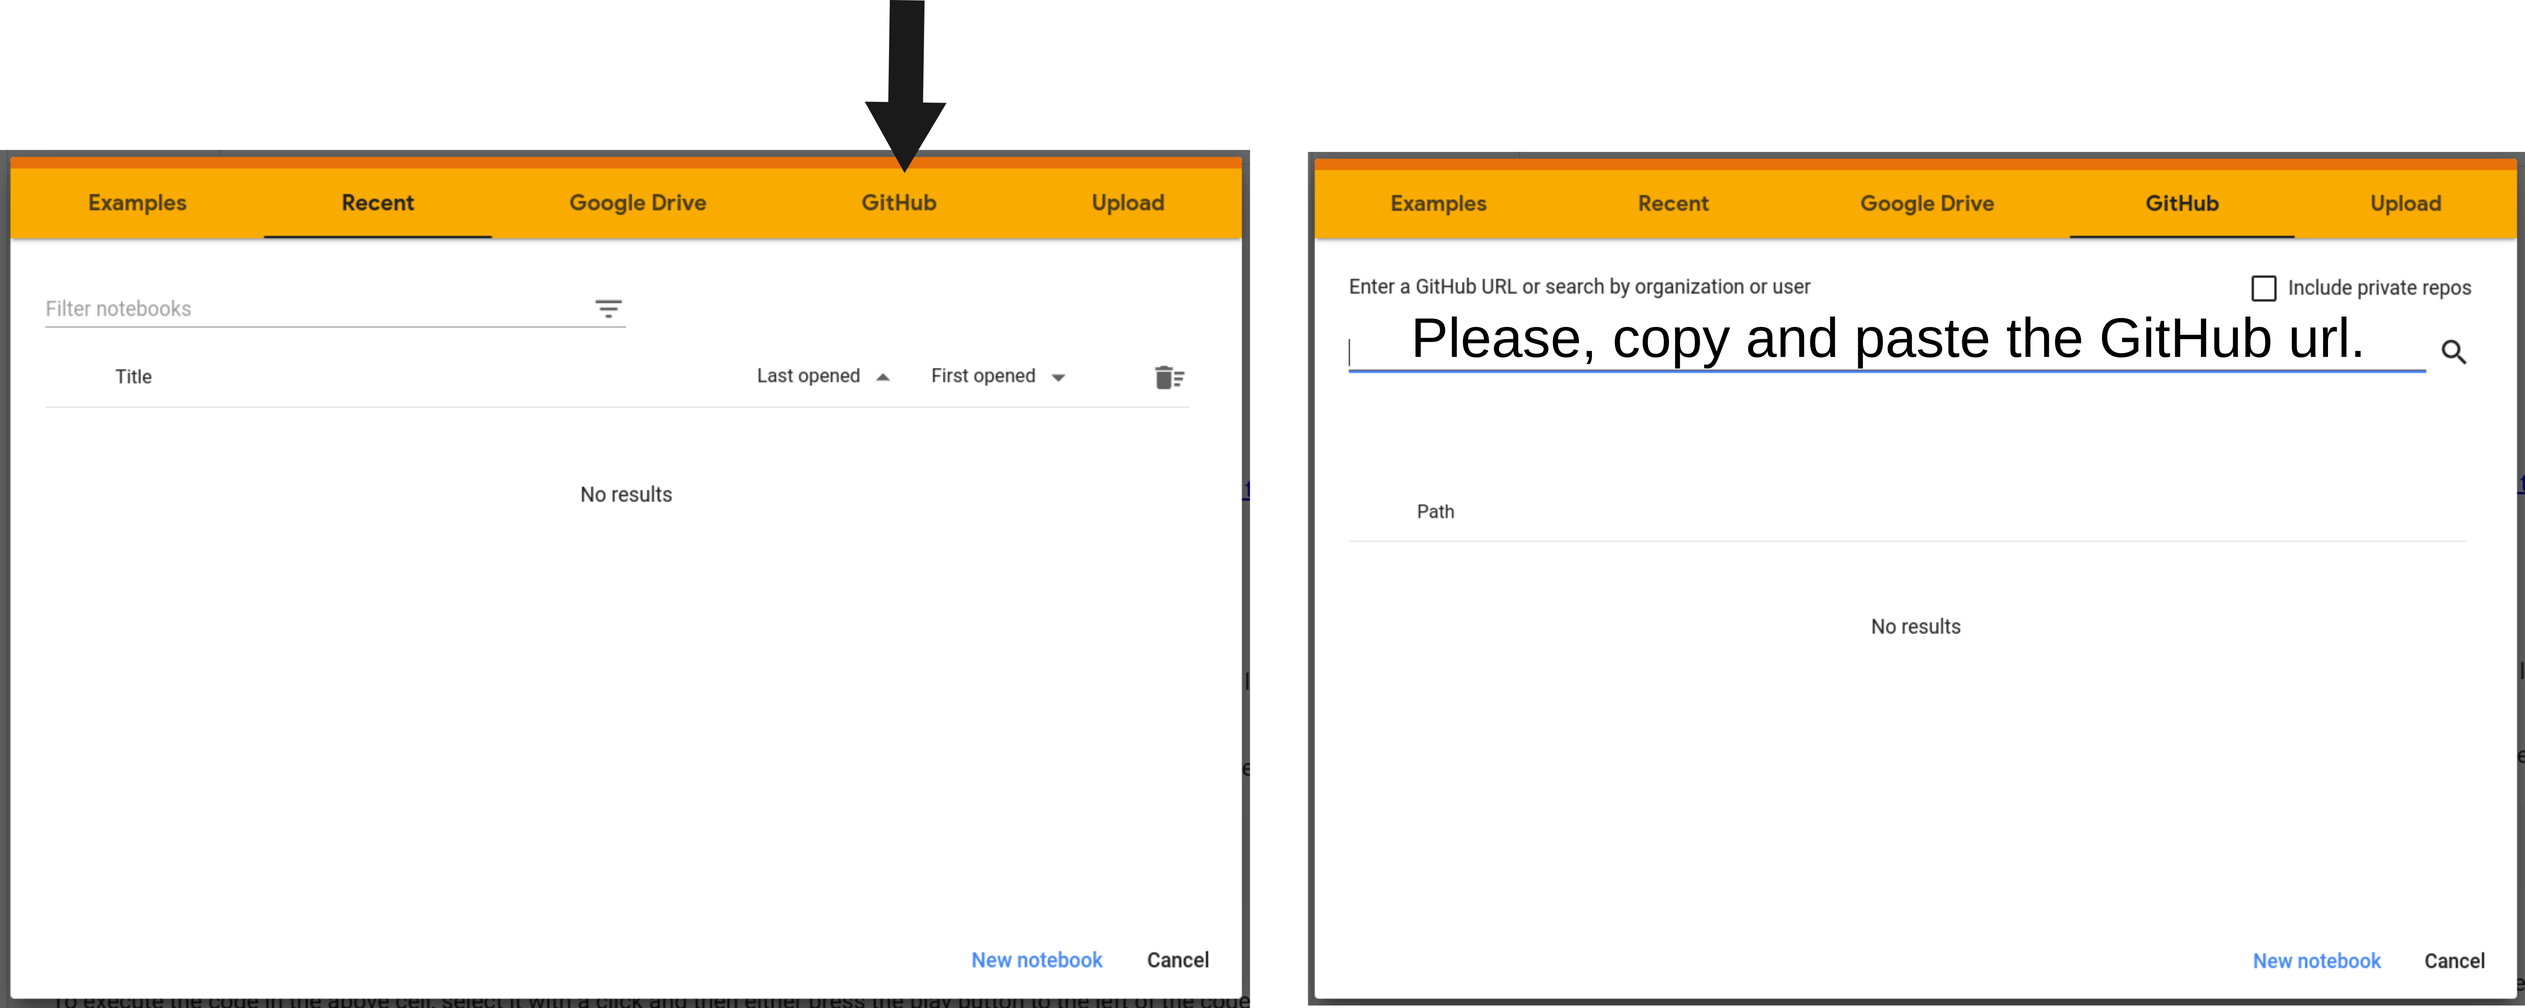
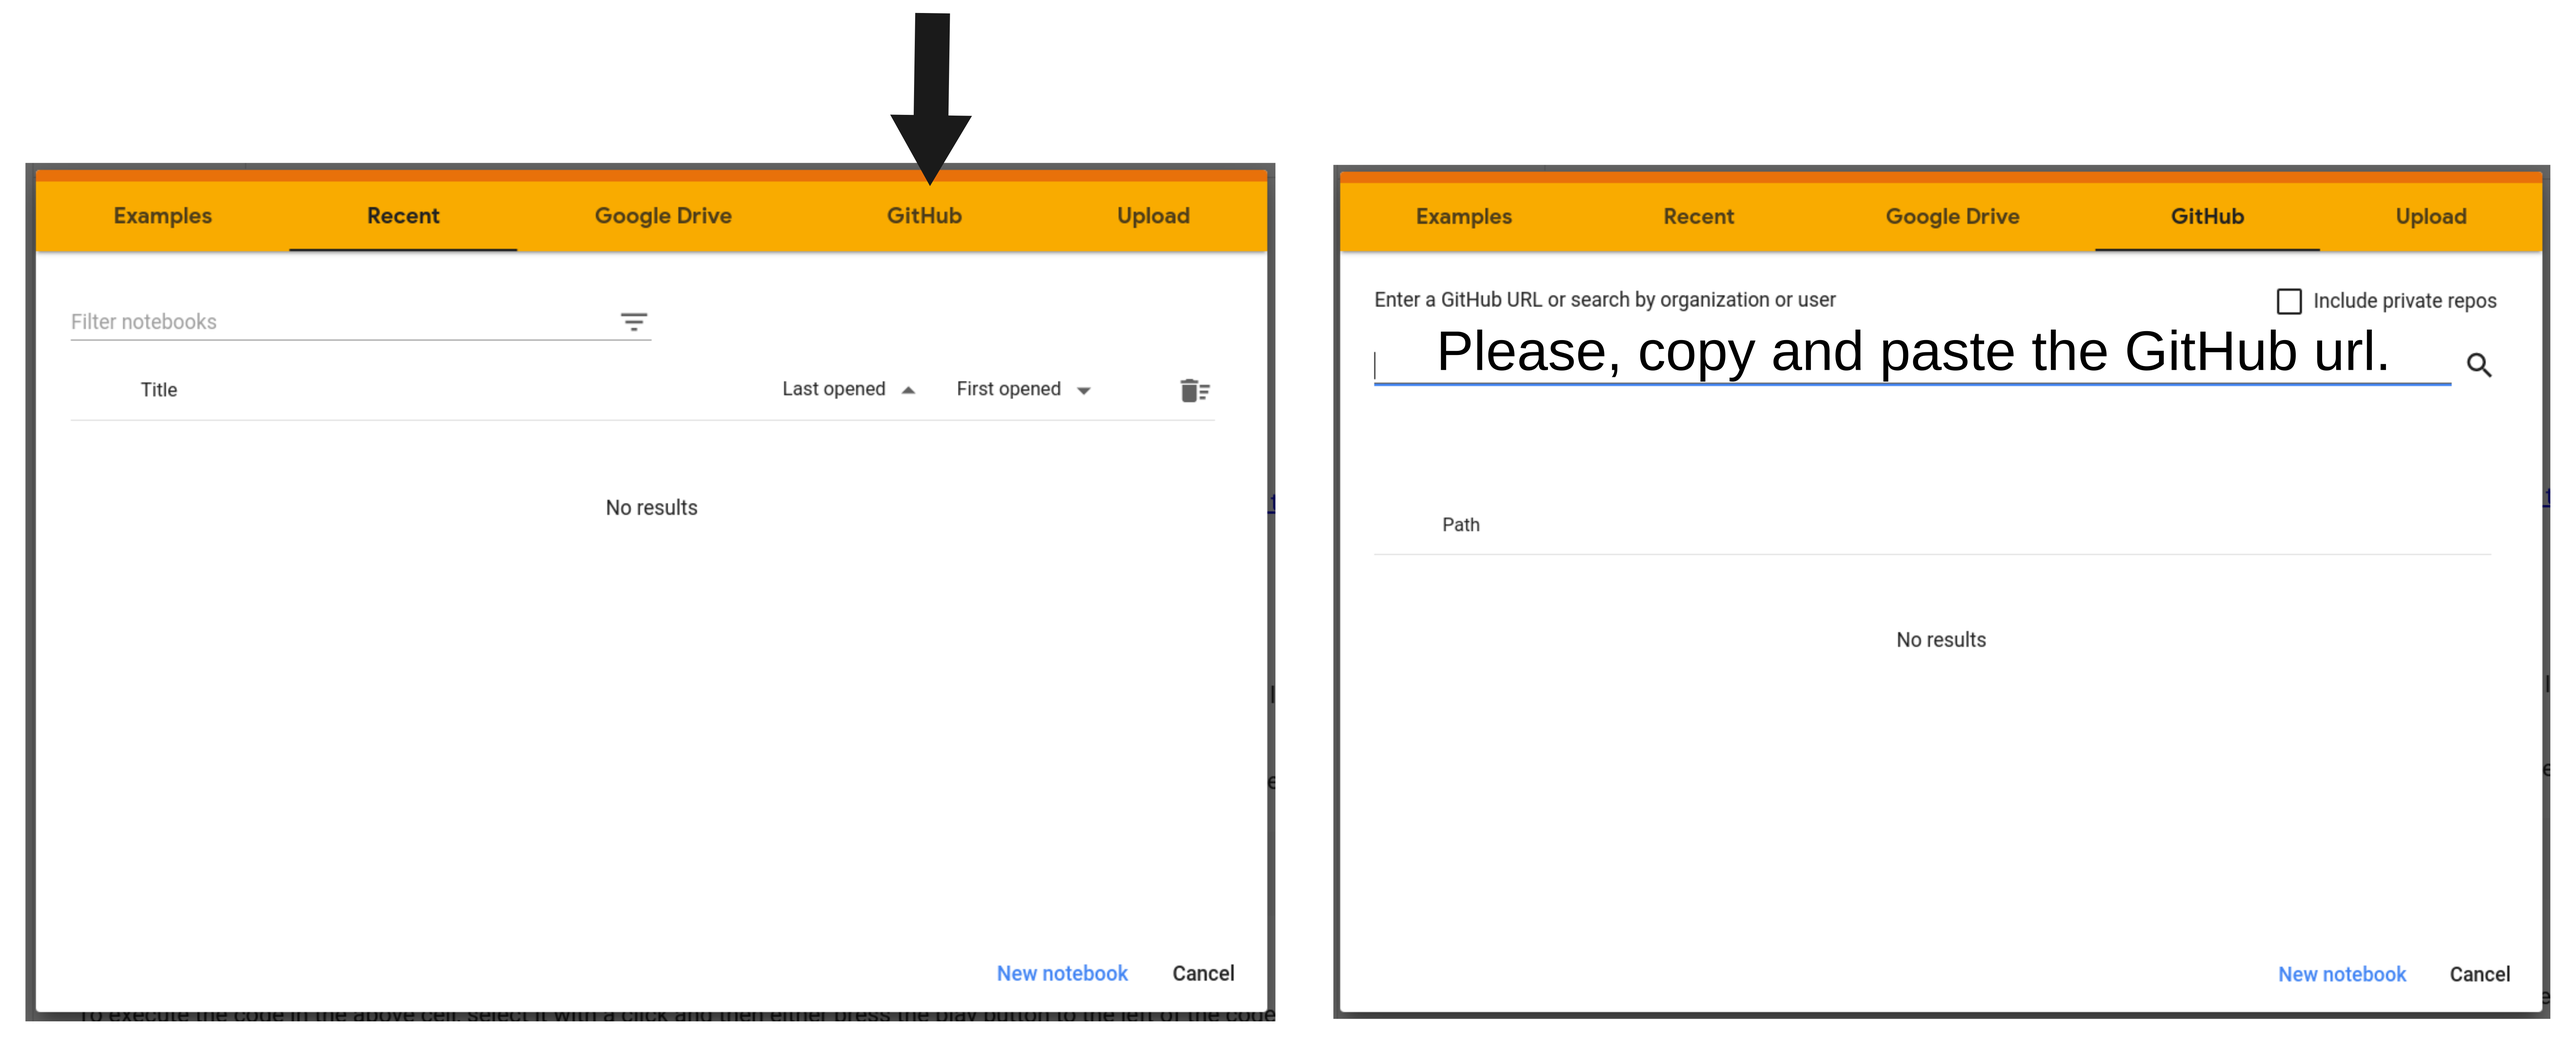
Commited Fri 08 Oct 2021 05:26:11 PM CDT @ pop-os

diff --git a/intro_google_colab.md b/intro_google_colab.md
@@ -1,19 +1,19 @@
-title: "Introduction Google Colab"
-author: "Andre Fonseca"
-date: "10/8/2021"
-
 ## Google Colab
 
-Colaboratory, or “Colab” for short, is a product from Google Research. Colab allows anybody to write and execute arbitrary python code through the browser, and is especially well suited to machine learning, data analysis and education.
+Colab is a free notebook environment that runs entirely in the cloud.  
+
 
 ![](./figures/colab_logo.jpeg)
 
 ## Why should I use it?
 
+There are plenty of reasons to use Google Colab. In summary, it is a collaborative environment (Colab stands for Collaboratory :eyes:) to code and share workflows among users. It lets you and your team members edit documents the way you work with Google Docs. Additionally, Google Colab provides a reasonable computation environment, allowing statistical analysis or even machine learning processes. In fact, there are a few ways to go up to 25Gb memory and use free GPU processors! :scream:
+
+#### Plus, Colab is free to use!  :heart_eyes:
 
 ## Setup enviroment
 
-To assess https://colab.research.google.com/
+To assess Google Colab, will necessary a **Gmail** account. Next, we can search for "Colab" on Google or simply copy and paste the link below: https://colab.research.google.com/
 
 1. Login on Google Colab
 
@@ -21,15 +21,15 @@ To assess https://colab.research.google.com/
 
 2. Connecting with ISMCO repository
 
-In order to connect with ISMCO repository you will need to copy and paste the repository address: https://github.com/AntunesLab/ISMCO-2021-TUTORIAL/blob/main/T05_APE-Gen_tutorial.ipynb. Next, hit the search button. 
+To connect with the ISMCO repository, you will need to copy and paste the repository address: https://github.com/AntunesLab/ISMCO-2021-TUTORIAL/blob/main/T05_APE-Gen_tutorial.ipynb. Next, hit the search button. 
 
 ![](./figures/google_colab_step_2.png)
 
 3. Copying APE-Gen_minimal_example to your own Google Drive
 
-Congrats! If you are able to see the screenshot below, it means that you made it through the whole setup process! We are at the very end! **However,  there is a final step required.**
+Congrats! If you can see the screenshot below, it means that you made it through the whole setup process! We are at the very end! **However,  there is a final step required.** :blush:
 
-To avoid any potential conflicts among user sessions each student should have an individual notebook instance. To do so, we can follow the first lines on the  "APE-Gen_minimal_example" file.
+Hold on! To avoid any potential conflicts among user sessions, each student should have an individual notebook instance. To do so, we can follow the first lines on the  "APE-Gen_minimal_example" file.
 
 ![](./figures/google_colab_step_3.png)
 
@@ -37,3 +37,6 @@ To avoid any potential conflicts among user sessions each student should have an
 > 
 > 1. File > Save a copy Drive
 > 2. Edit > Notebook settings > Hardware Accelerator > GPU 
+
+# That's all folks!
+
